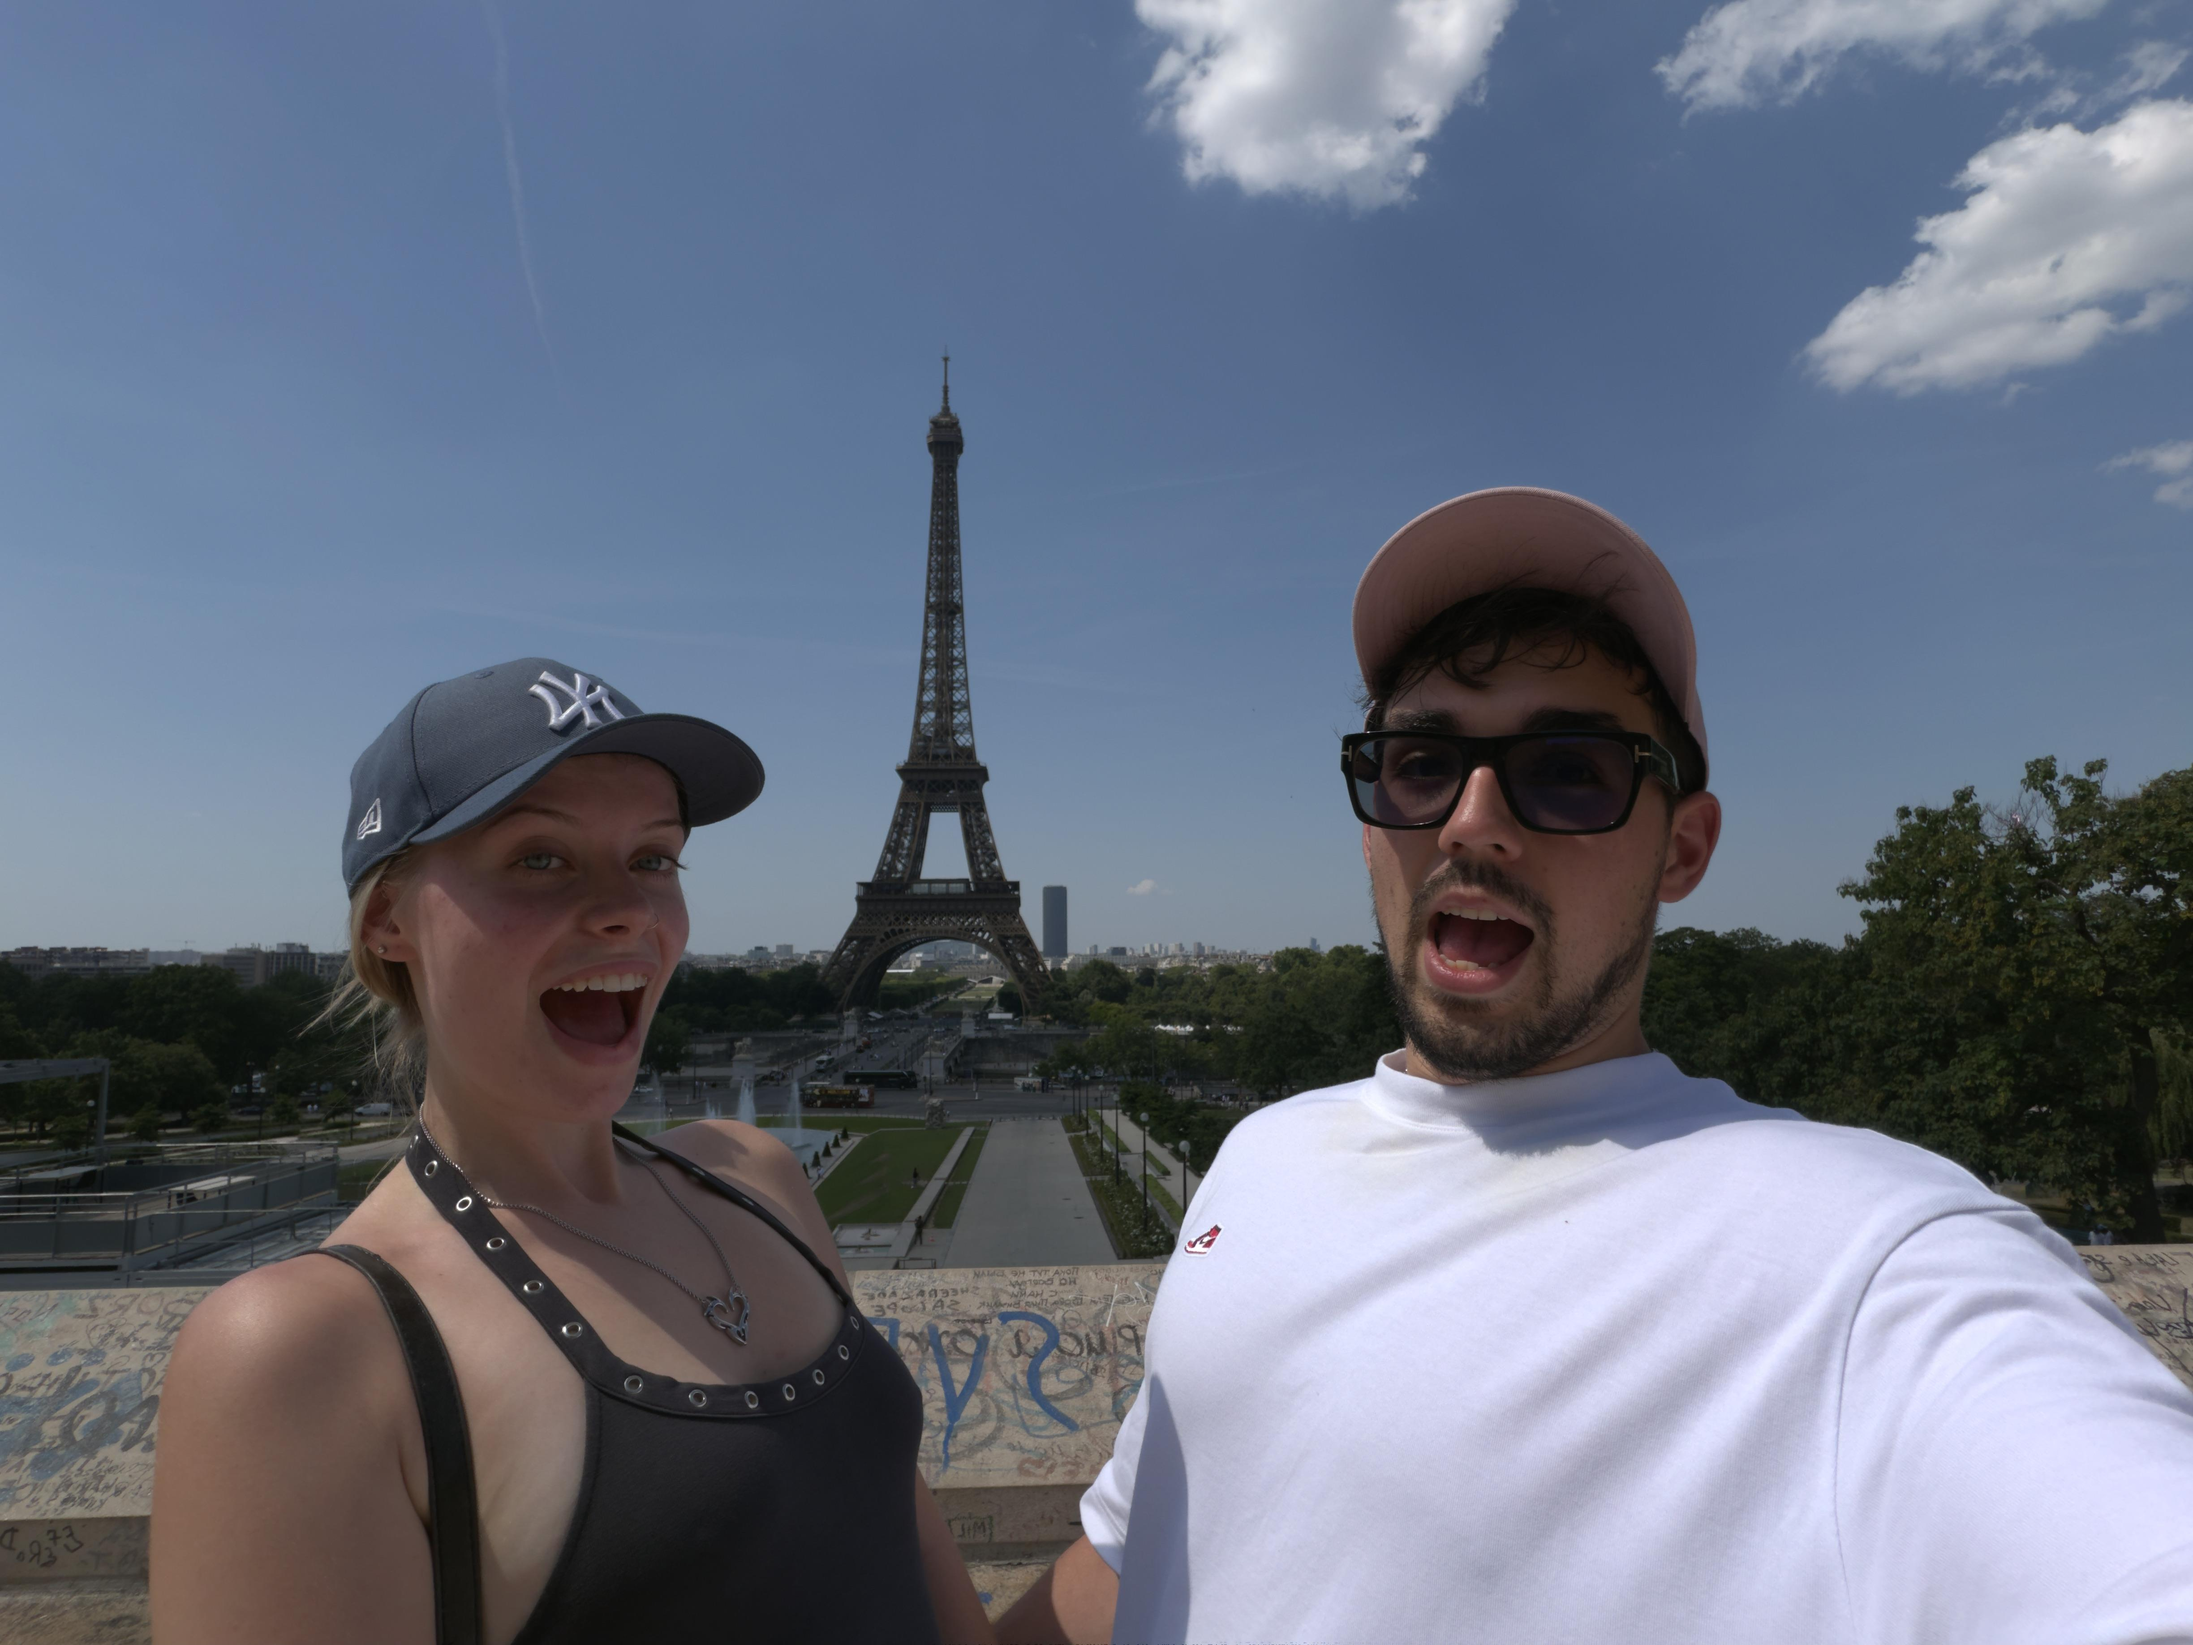
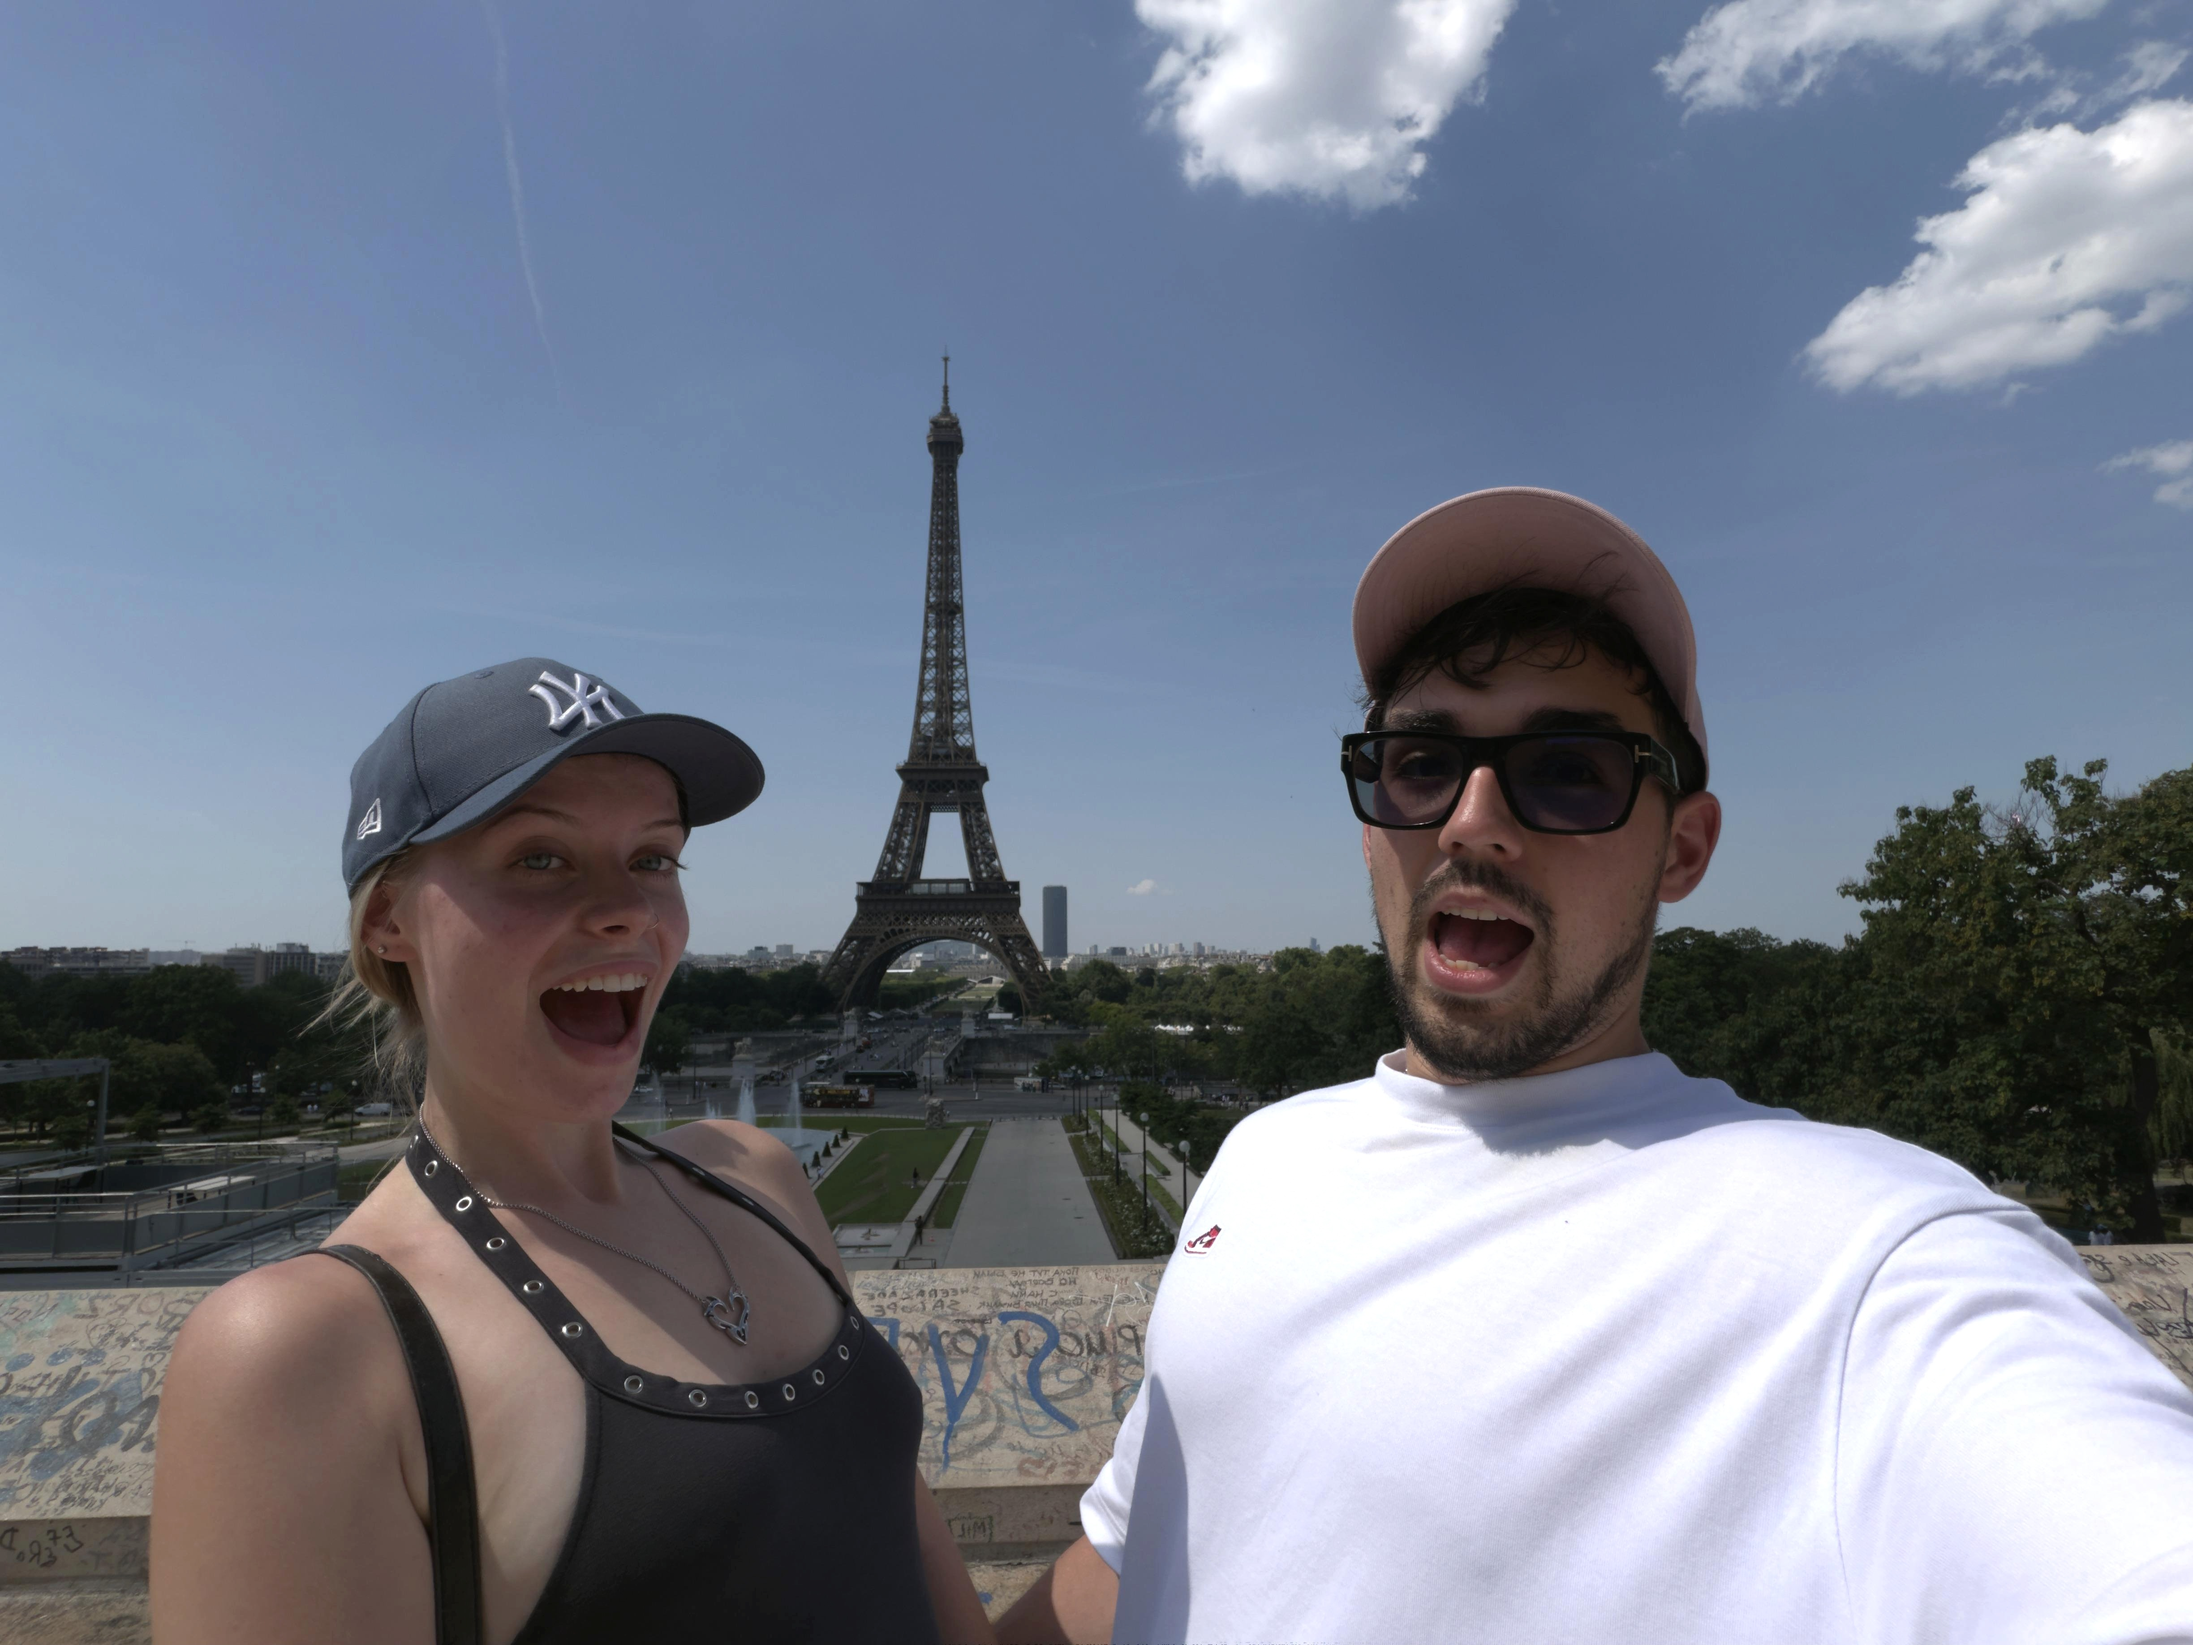
Update TikTok/Instagram stats for 12 August 2026, redesign follower growth chart, brighten hero photo
Refresh follower/view/engagement numbers across both platforms, rescale the
60-day growth chart to per-platform 10k-tick axes with labeled start/end
points, update the 60-day date range, and lighten the hero polaroid photo.

diff --git a/data.js b/data.js
@@ -65,14 +65,14 @@ const DATA = {
     ],
   },
 
-  updatedOn: "4 August 2026",
-  period: { label: "Last 60 days", range: "22 May to 20 July 2026" },
+  updatedOn: "12 August 2026",
+  period: { label: "Last 60 days", range: "13 June to 12 August 2026" },
 
   headline: {
-    totalFollowers: 57600, // 37,500 TikTok + 20,100 Instagram
-    combinedViews: 18400000, // 13.2M TikTok + 5.2M Instagram
-    combinedInteractions: 1326600, // TikTok likes+comments+shares + Instagram interactions
-    newFollowers60d: 42191, // +28,653 TikTok, +13,538 Instagram
+    totalFollowers: 60100, // 38,900 TikTok + 21,200 Instagram
+    combinedViews: 18400000, // 12.9M TikTok + 5.5M Instagram
+    combinedInteractions: 1352000, // TikTok likes+comments+shares + Instagram interactions
+    newFollowers60d: 36100, // +23,700 TikTok, +12,400 Instagram
   },
 
   tiktok: {
@@ -80,17 +80,17 @@ const DATA = {
     url: "https://www.tiktok.com/@jessicasyaps",
 
     followers: {
-      total: 37500,
-      netNew60d: 28653,
+      total: 38900,
+      netNew60d: 23700,
       netNewChangePct: 657.3,
       growthChart: {
-        yAxisMax: 42600,
-        yAxisTicks: [14200, 28400, 42600],
-        xStart: "22 May 2026",
-        xEnd: "20 July 2026",
+        yAxisMax: 40000,
+        yAxisTicks: [10000, 20000, 30000, 40000],
+        xStart: "13 June 2026",
+        xEnd: "12 August 2026",
         points: [
-          8800, 11500, 14000, 16500, 19000, 20500, 27000, 30000, 32000, 37500,
-        ], // approximate
+          15200, 17430, 19500, 21560, 23620, 24860, 30230, 32710, 34360, 38900,
+        ], // approximate; +23,700 over 60 days to 38,900
       },
       gender: { female: 57, male: 43 },
       age: {
@@ -111,11 +111,11 @@ const DATA = {
     },
 
     performance: {
-      postViews: { value: 13200000, change: 11400000, changePct: 633.3 },
+      postViews: { value: 12900000, change: 11400000, changePct: 633.3 },
       profileViews: { value: 271400, change: 234400, changePct: 634.3 },
-      likes: { value: 928200, change: 830200, changePct: 847.1 },
-      comments: { value: 16200, change: 13300, changePct: 458.6 },
-      shares: { value: 33200, change: 28600, changePct: 621.7 },
+      likes: { value: 926000, change: 830200, changePct: 847.1 },
+      comments: { value: 16900, change: 13300, changePct: 458.6 },
+      shares: { value: 33100, change: 28600, changePct: 621.7 },
     },
 
     traffic: { forYou: 88.2, personalProfile: 11.1 },
@@ -126,23 +126,23 @@ const DATA = {
     url: "https://www.instagram.com/jessicasyaps",
 
     followers: {
-      total: 20100,
-      netNew60d: 13538,
+      total: 21200,
+      netNew60d: 12400,
       growthChart: {
-        yAxisMax: 22500,
-        yAxisTicks: [7500, 15000, 22500],
-        xStart: "22 May 2026",
-        xEnd: "20 July 2026",
+        yAxisMax: 30000,
+        yAxisTicks: [10000, 20000, 30000],
+        xStart: "13 June 2026",
+        xEnd: "12 August 2026",
         points: [
-          6562, 7400, 8500, 9800, 11200, 12600, 14000, 15400, 16600, 20100,
-        ], // approximate
+          8800, 9570, 10580, 11770, 13050, 14330, 15610, 16900, 17990, 21200,
+        ], // approximate; +12,400 over 60 days to 21,200
       },
     },
 
     performance: {
-      views: 5200000,
-      viewersReached: 841000,
-      interactions: 349000,
+      views: 5500000,
+      viewersReached: 865000,
+      interactions: 376000,
       viewsFromFollowers: 9.7,
       viewsFromNonFollowers: 90.3,
       byContentType: {

diff --git a/script.js b/script.js
@@ -250,7 +250,10 @@
         `).join("")}
         <path class="trend-fill" id="${svgId}FillPath" style="fill:url(#${gradientId})" d="${fillPath}"></path>
         <path class="trend-path" id="${svgId}PathLine" d="${linePath}" pathLength="1"></path>
+        <circle class="trend-dot" id="${svgId}StartDot" cx="${points[0][0]}" cy="${points[0][1]}" r="4"></circle>
         <circle class="trend-dot" id="${svgId}Dot" cx="${points[points.length - 1][0]}" cy="${points[points.length - 1][1]}" r="4"></circle>
+        <text class="trend-value-label" id="${svgId}StartValue" x="${points[0][0]}" y="${points[0][1] - 8}" text-anchor="start">${fmtCompact(g.points[0])}</text>
+        <text class="trend-value-label" id="${svgId}EndValue" x="${points[points.length - 1][0]}" y="${points[points.length - 1][1] - 8}" text-anchor="end">${fmtCompact(g.points[g.points.length - 1])}</text>
         <text class="trend-axis-label" id="${svgId}XStart" x="${padLeft}" y="${h - 6}" text-anchor="start">${g.xStart}</text>
         <text class="trend-axis-label" id="${svgId}XEnd" x="${w - padRight}" y="${h - 6}" text-anchor="end">${g.xEnd}</text>
       `;
@@ -273,9 +276,23 @@
     document.getElementById(`${svgId}FillPath`).setAttribute("d", fillPath);
     document.getElementById(`${svgId}PathLine`).setAttribute("d", linePath);
 
+    const startDot = document.getElementById(`${svgId}StartDot`);
+    startDot.setAttribute("cx", points[0][0]);
+    startDot.setAttribute("cy", points[0][1]);
+
     const dot = document.getElementById(`${svgId}Dot`);
     dot.setAttribute("cx", points[points.length - 1][0]);
     dot.setAttribute("cy", points[points.length - 1][1]);
+
+    const startValue = document.getElementById(`${svgId}StartValue`);
+    startValue.setAttribute("x", points[0][0]);
+    startValue.setAttribute("y", points[0][1] - 8);
+    startValue.textContent = fmtCompact(g.points[0]);
+
+    const endValue = document.getElementById(`${svgId}EndValue`);
+    endValue.setAttribute("x", points[points.length - 1][0]);
+    endValue.setAttribute("y", points[points.length - 1][1] - 8);
+    endValue.textContent = fmtCompact(g.points[g.points.length - 1]);
 
     document.getElementById(`${svgId}XStart`).textContent = g.xStart;
     document.getElementById(`${svgId}XEnd`).textContent = g.xEnd;

diff --git a/styles.css b/styles.css
@@ -850,6 +850,13 @@ button {
   fill: var(--ink-soft);
   transition: y 0.8s var(--ease);
 }
+.trend-value-label {
+  font-family: var(--font-body);
+  font-size: 9px;
+  font-weight: 700;
+  fill: var(--pink-700);
+  transition: x 0.8s var(--ease), y 0.8s var(--ease);
+}
 
 /* ---------- stats ---------- */
 .stat-grid {
